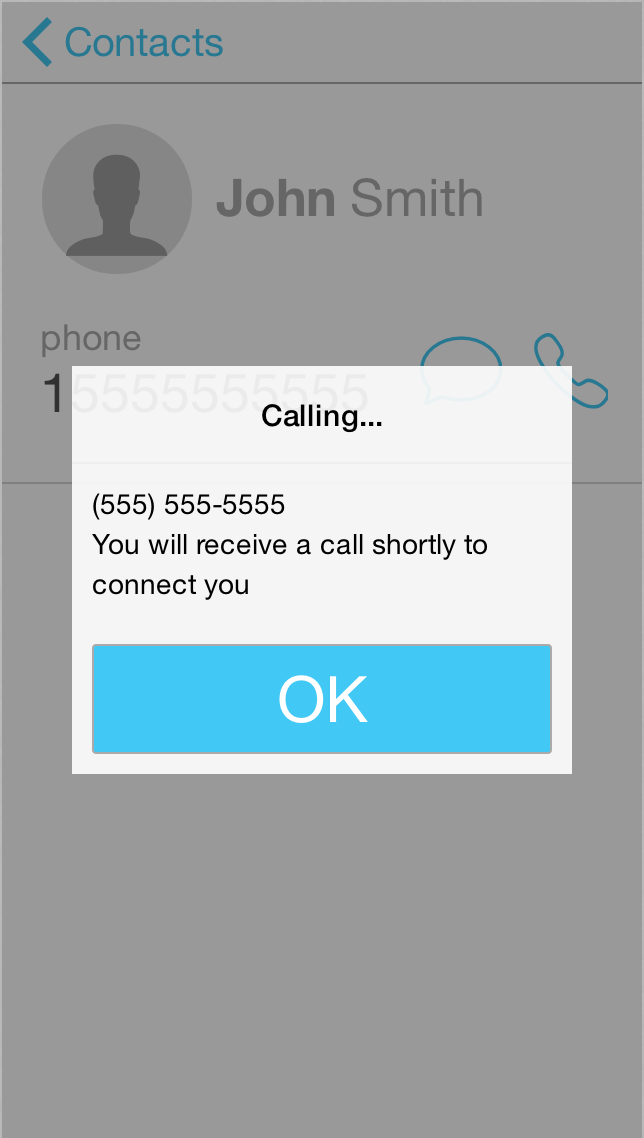
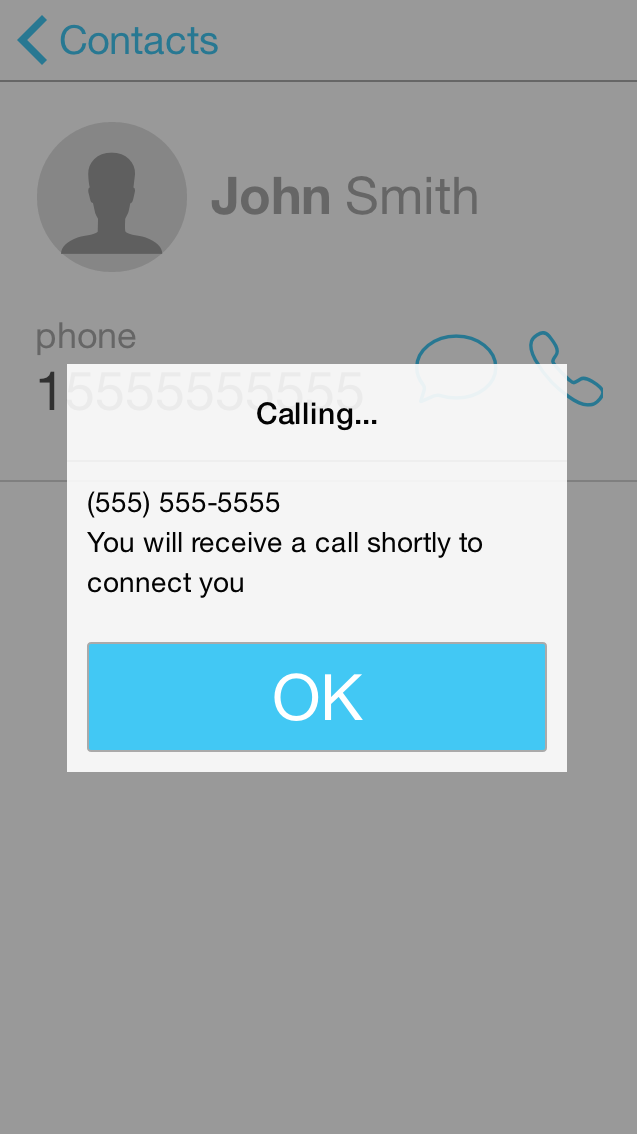
Added screenshots to splash site

diff --git a/css/grayscale.css b/css/grayscale.css
@@ -57,12 +57,33 @@ a:focus {
     color: #11505d;
 }
 
-div.screenshot {
+/*div.screenshot {
     content: url(../img/screenshot1.png);
     width: 20%;
     height: 20%;
     display: inline-block;
+}*/
+.screenshot1, .screenshot2, .screenshot3, .screenshot4 {
+    display: inline-block;
+    width: 10em;
 }
+
+.screenshot1 {
+    content: url(../img/screenshot-dialer.png);
+}
+.screenshot2 {
+    content: url(../img/screenshot-contacts.png);
+
+}
+.screenshot3 {
+    content: url(../img/screenshot-call.png);
+
+}
+.screenshot4 {
+    content: url(../img/screenshot-text.png);
+
+}
+
 div.team {
     display: table;
     margin: auto;

diff --git a/index.html b/index.html
@@ -99,10 +99,10 @@
                 </div>
                 
             </div>
-            <div class='screenshot'></div>
-            <div class='screenshot'></div>
-            <div class='screenshot'></div>
-            <div class='screenshot'></div>
+            <div class='screenshot1'></div>
+            <div class='screenshot2'></div>
+            <div class='screenshot3'></div>
+            <div class='screenshot4'></div>
         </div>
     </section>
 
